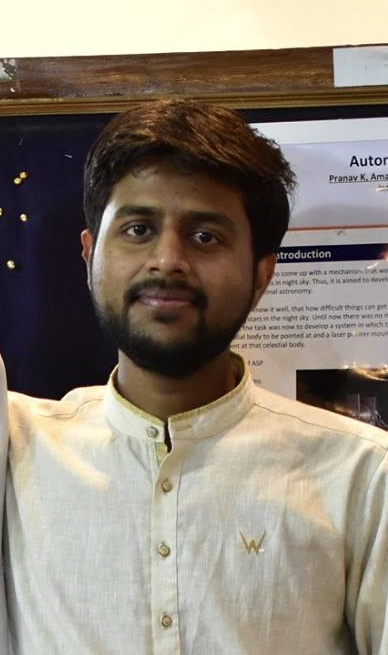
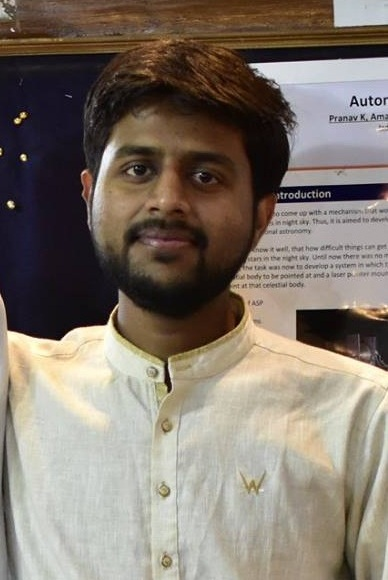
minor fixes

diff --git a/_team/gaurav.md b/_team/gaurav.md
@@ -4,5 +4,5 @@ batch: Y16
 info: BT Chemical Engg.
 facebook: #
 insta: #
-image_path: /assets/img/team/Garav.jpg
+image_path: /assets/img/team/Gaurav.jpg
 ---
